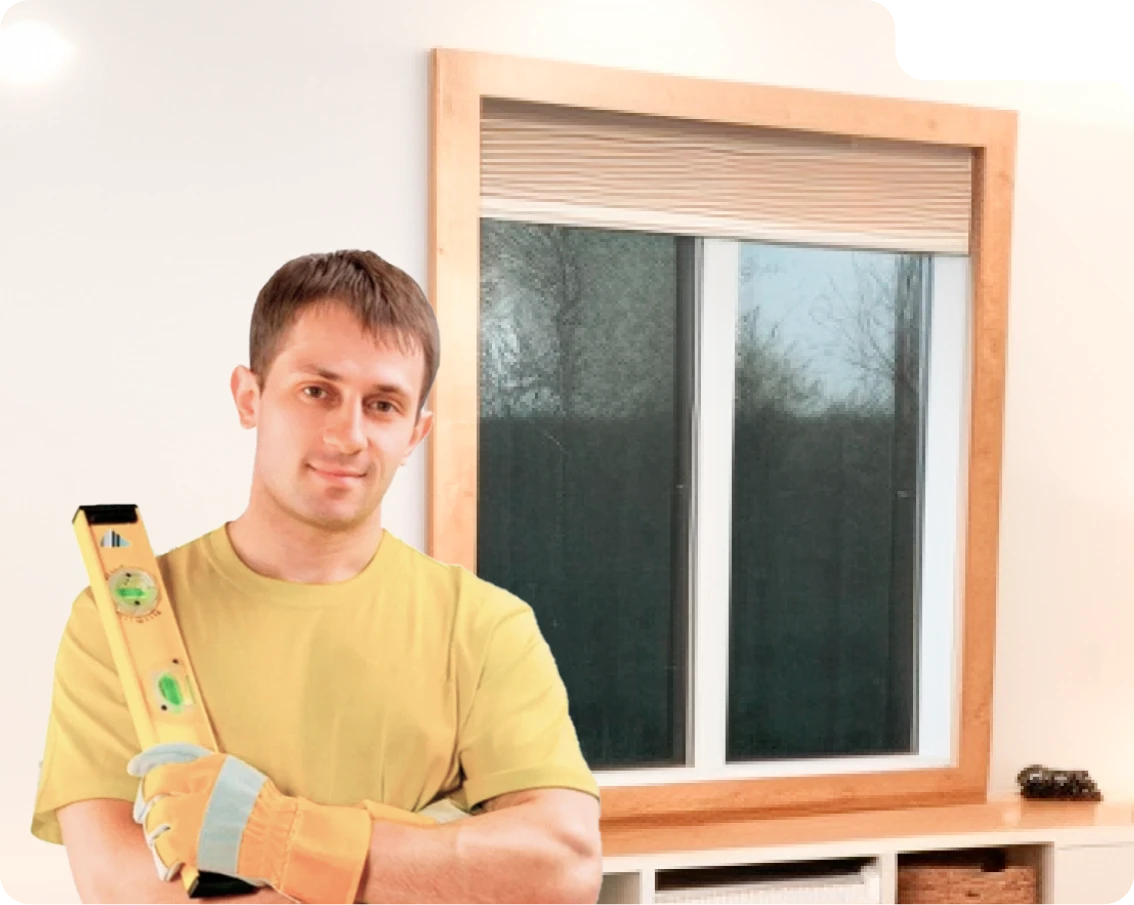
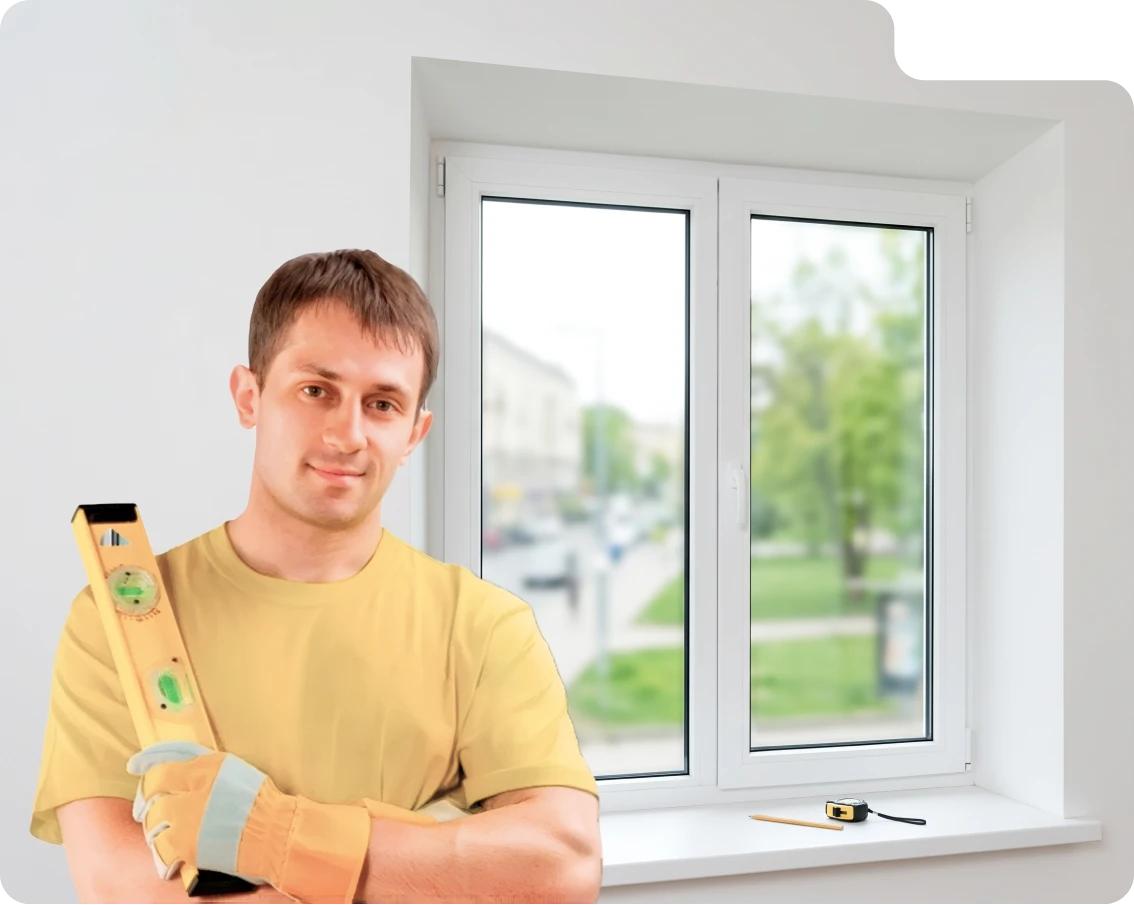
Новые фото before/after, масштабирование макета по высоте экрана

diff --git a/style.css b/style.css
@@ -5,16 +5,19 @@
 :root {
   --bg: #262626;
   --yellow: #ffdf6b;
-  --u: calc(100vw / 1920);
+  --u: min(100vw / 1920, 100dvh / 1004);
 }
 * { box-sizing: border-box; margin: 0; }
 html { background: var(--bg); }
-body { font-family: "Montserrat", sans-serif; color: #fff; background: var(--bg); }
+body {
+  font-family: "Montserrat", sans-serif; color: #fff; background: var(--bg);
+  height: 100dvh; overflow: hidden; display: grid; place-items: center;
+}
 
 @view-transition { navigation: auto; }
 ::view-transition-old(photo), ::view-transition-new(photo) { animation-duration: .6s; }
 
-.hero { position: relative; width: 100vw; height: calc(1004 * var(--u)); overflow: hidden; }
+.hero { position: relative; width: calc(1920 * var(--u)); height: calc(1004 * var(--u)); overflow: hidden; }
 .left { display: contents; }
 .hero > *, .left > * { position: absolute; }
 
@@ -92,7 +95,8 @@ body { font-family: "Montserrat", sans-serif; color: #fff; background: var(--bg)
 /* телефон / узкие экраны */
 @media (max-width: 900px) {
   :root { --u: 1px; }
-  .hero { height: auto; display: flex; flex-direction: column; gap: 32px; padding: 16px; overflow: visible; }
+  body { height: auto; overflow: auto; display: block; }
+  .hero { width: auto; height: auto; display: flex; flex-direction: column; gap: 32px; padding: 16px; overflow: visible; }
   .hero > *, .left > * { position: static; }
   .nav { width: auto; align-self: flex-start; height: 48px; gap: 0; }
   .nav a { position: static !important; transform: none !important; width: auto !important; padding: 0 16px; font-size: 14px; }
